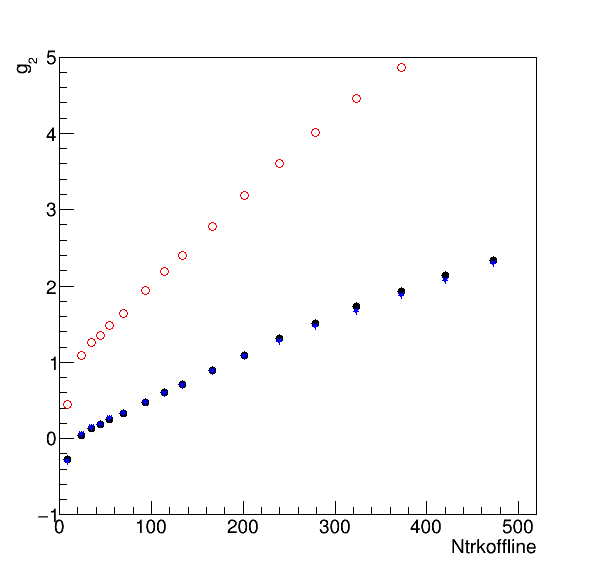
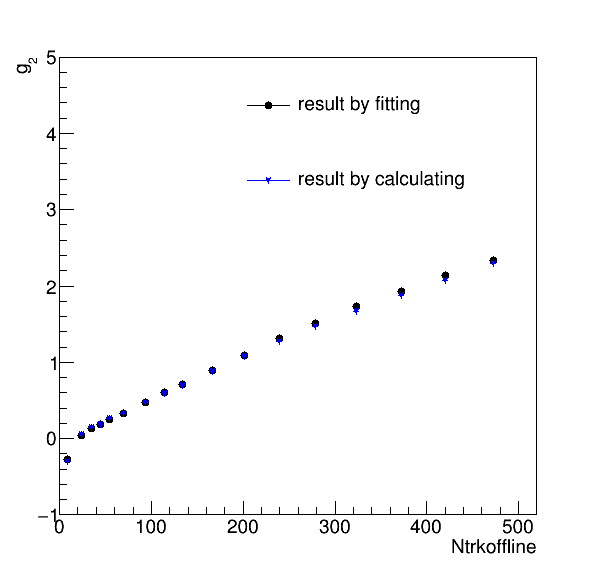
qfit PbPb

diff --git a/flow/qfit/PbPb2011MB/plotallbins.C b/flow/qfit/PbPb2011MB/plotallbins.C
@@ -29,6 +29,10 @@ void plotallbins(){
     TGraphErrors *grg = new TGraphErrors(nbin,avgtrk[0],g2[0],0,g2err[0]);
     TGraphErrors *grgnonf = new TGraphErrors(nbin,avgtrk[0],g2[1],0,g2err[1]);
     TGraphErrors *grgcalc = new TGraphErrors(nbin,avgtrk[0],g2calc[0],0,g2err[0]);
+    TLegend *tl = new TLegend(0.40,0.62,0.80,0.88);
+    tl->SetTextSize(0.035);
+    tl->SetBorderSize(0);
+    tl->SetFillColor(0);
 
     TCanvas *c1 = new TCanvas("c1","c1",600,600);
     grv->SetTitle("");
@@ -43,9 +47,12 @@ void plotallbins(){
     grvcalc->SetMarkerStyle(29);
     grvcalc->SetMarkerColor(4);
     grvcalc->SetLineColor(4);
+    tl->AddEntry(grv,"result by fitting","lp");
+    tl->AddEntry(grvcalc,"result by calculating","lp");
     grv->Draw("AP");
-    grvnonf->Draw("Psame");
+    //grvnonf->Draw("Psame");
     grvcalc->Draw("Psame");
+    tl->Draw("same");
 
     TCanvas *c2 = new TCanvas("c2","c2",600,600);
     grg->SetTitle("");
@@ -61,8 +68,9 @@ void plotallbins(){
     grgcalc->SetMarkerColor(4);
     grgcalc->SetLineColor(4);
     grg->Draw("AP");
-    grgnonf->Draw("Psame");
+    //grgnonf->Draw("Psame");
     grgcalc->Draw("Psame");
+    tl->Draw("same");
 
     c1->Print("v2vsNtrk.png");
     c2->Print("g2vsNtrk.png");
